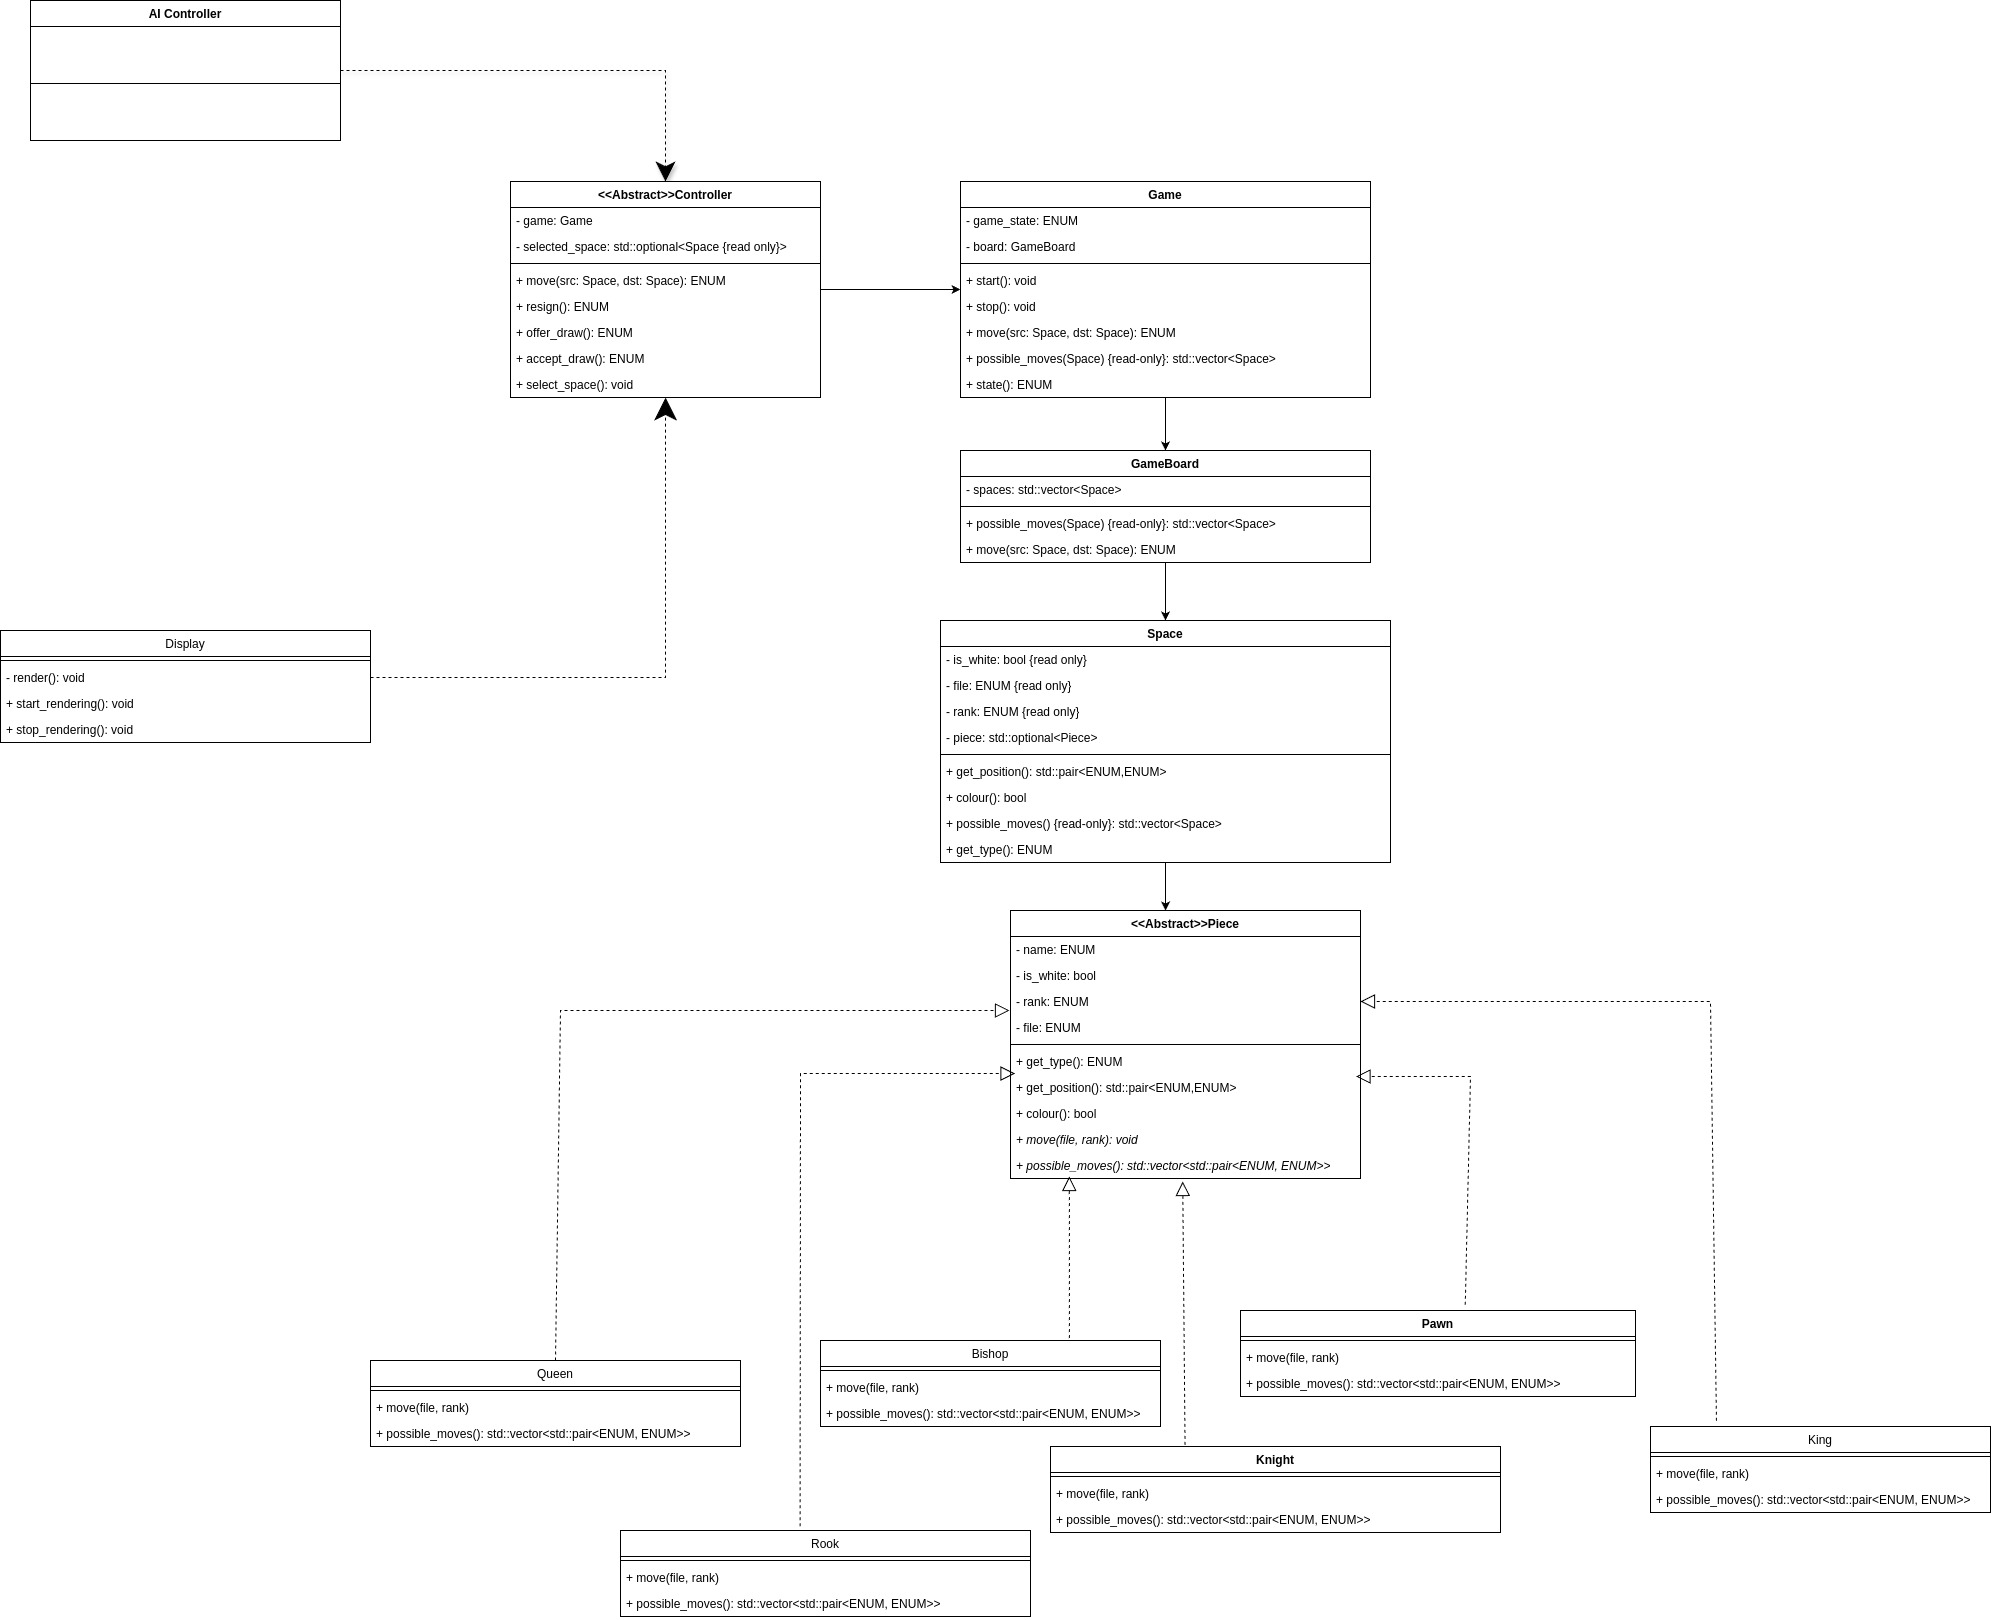
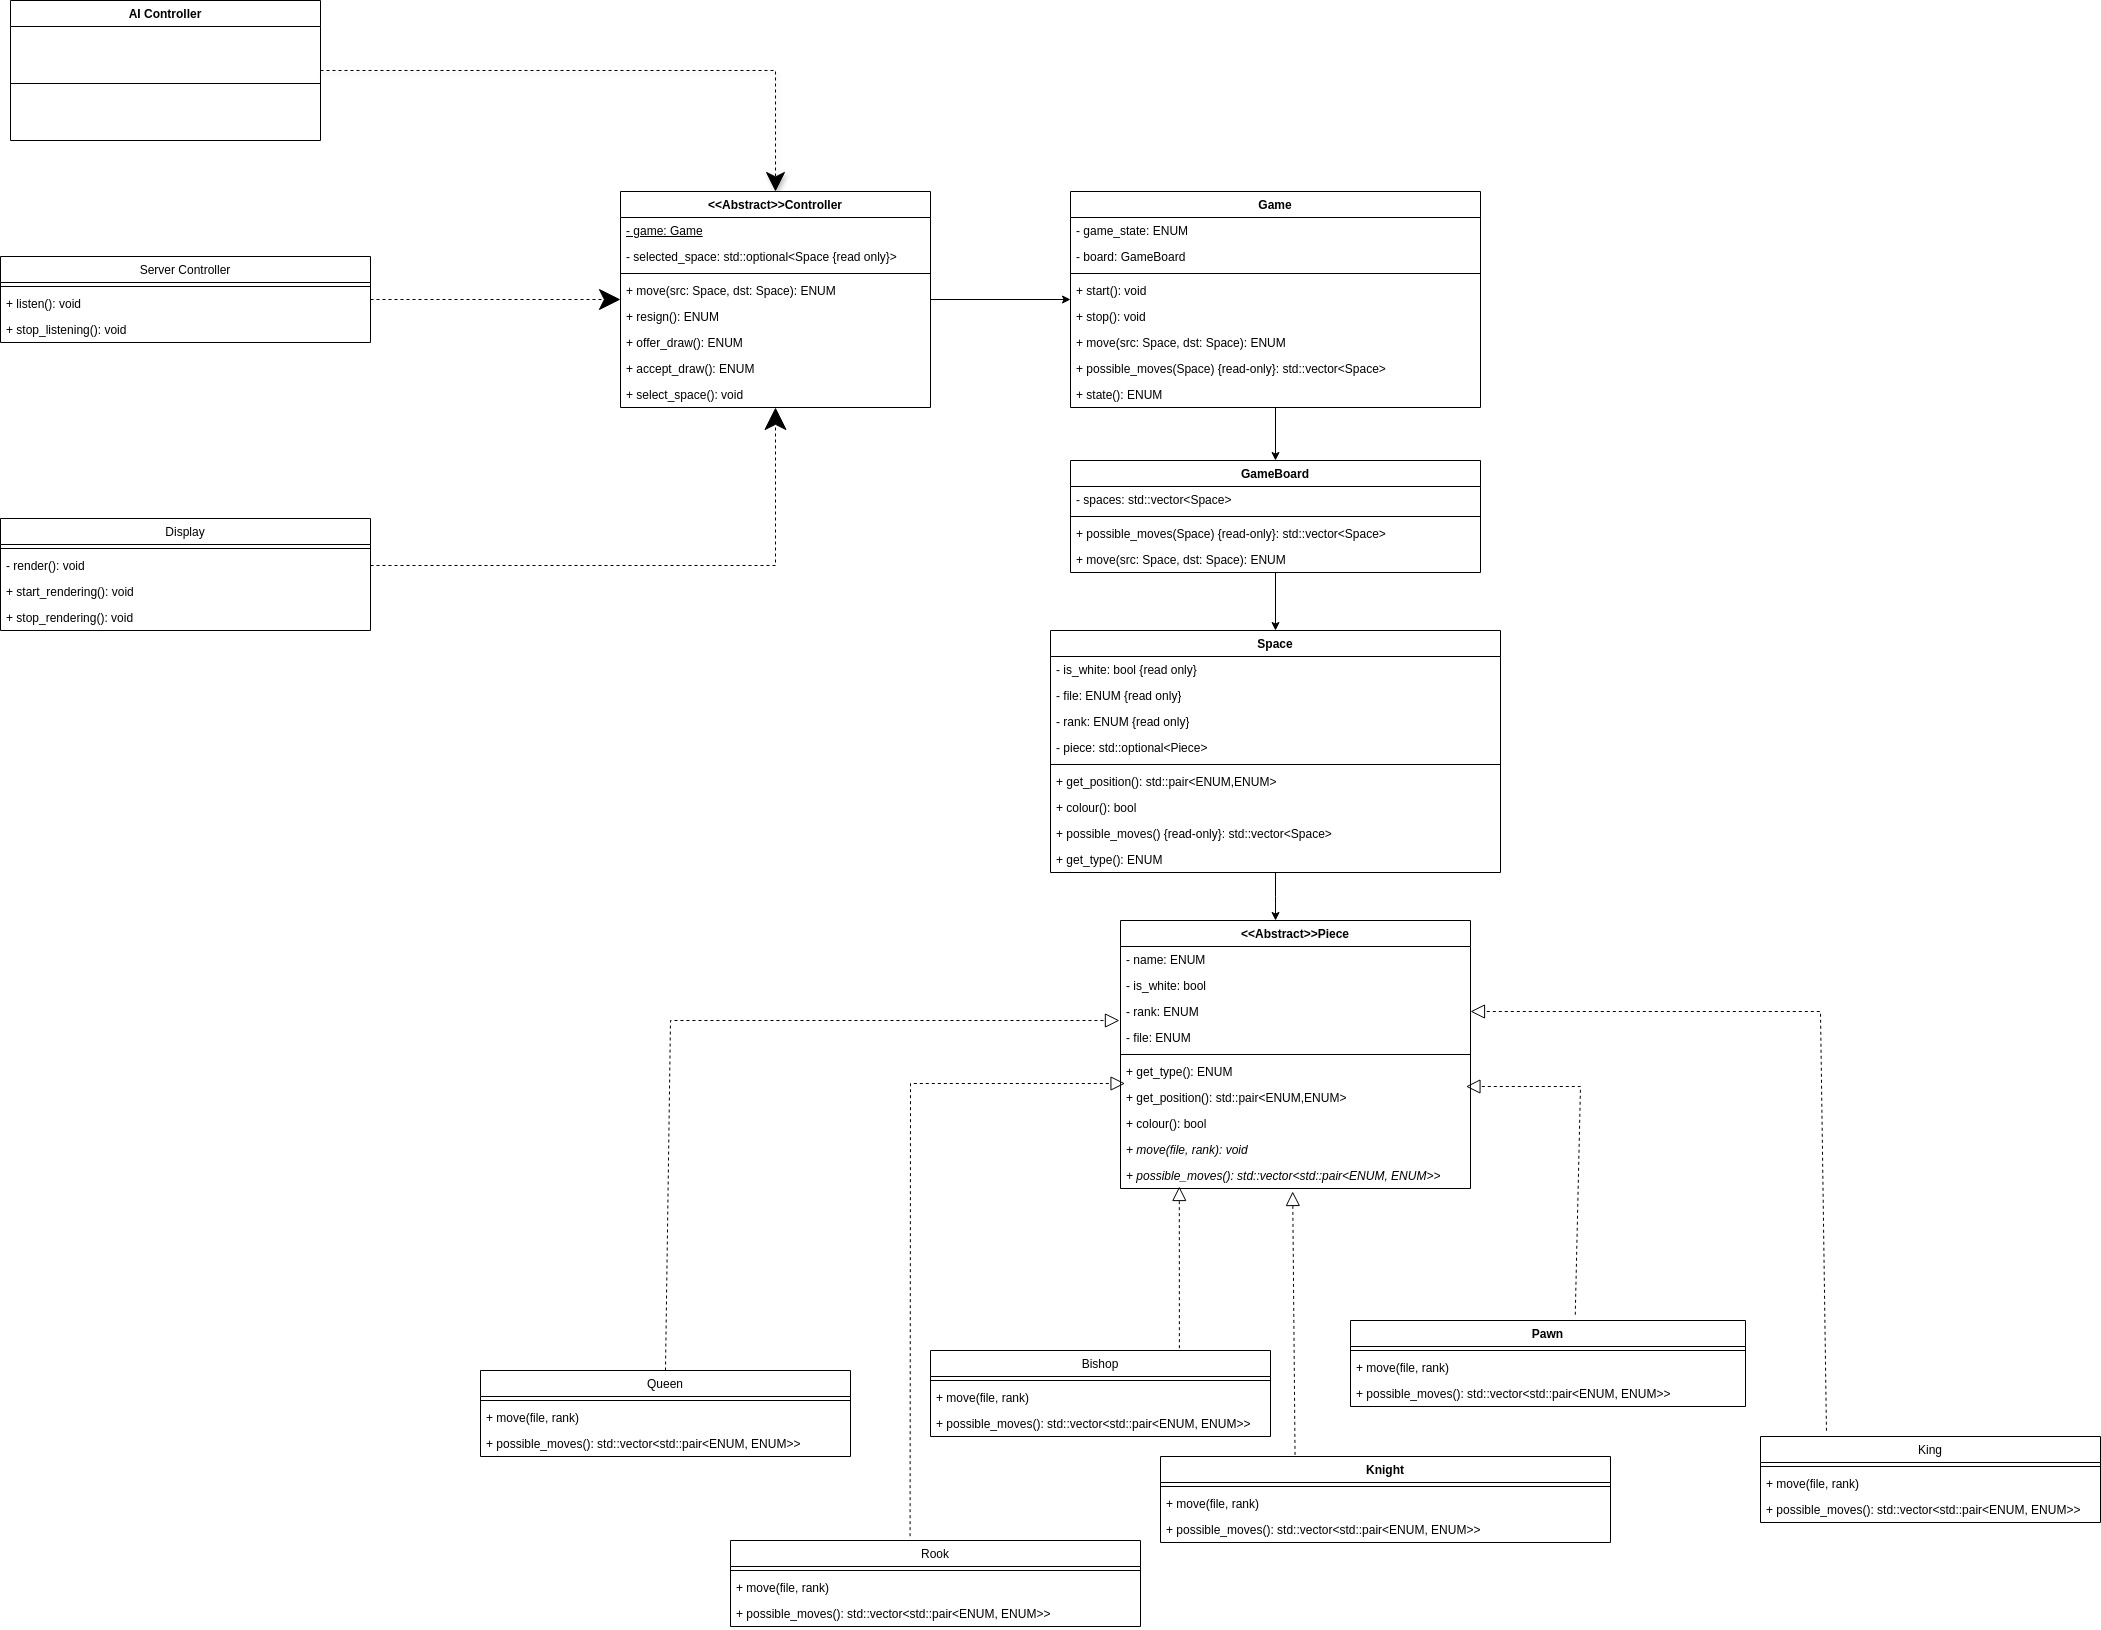
implemented piece class

diff --git a/game/pieces/include/piece.hpp b/game/pieces/include/piece.hpp
@@ -1,0 +1,62 @@
+#ifndef __CHESS__PIECES__PIECE__
+#define __CHESS__PIECES__PIECE__
+
+#include <utility>
+#include <vector>
+namespace chess::pieces {
+
+    enum class name_t {
+        rook,
+        knight,
+        bishop,
+        king,
+        queen,
+        pawn,
+    };
+
+    enum class rank_t {
+        a,
+        b,
+        c,
+        d,
+        e,
+        f,
+        g,
+        h,
+    };
+
+    enum class file_t {
+        one,
+        two,
+        three,
+        four,
+        five,
+        six,
+        seven,
+        eight,
+    };
+
+    using position_t = std::pair< rank_t, file_t >;
+
+    class piece {
+    public:
+        bool       colour() const;
+        name_t     type() const;
+        position_t position() const;
+
+        void move( position_t const dst );
+
+        virtual std::vector< position_t > possible_moves() const = 0;
+
+    protected:
+        piece( bool const white, name_t const name, rank_t const rank, file_t const file );
+
+    private:
+        name_t name;
+        rank_t rank;
+        file_t file;
+        bool   is_white;
+    };
+}  // namespace chess::pieces
+
+#endif

diff --git a/game/pieces/src/piece.cpp b/game/pieces/src/piece.cpp
@@ -1,0 +1,22 @@
+#include <piece.hpp>
+
+namespace chess::pieces {
+
+    piece::piece( bool const white, name_t const name, rank_t const rank, file_t const file )
+    {
+        is_white   = white;
+        this->name = name;
+        this->file = file;
+        this->rank = rank;
+    }
+
+    bool       piece::colour() const { return is_white; }
+    position_t piece::position() const { return { rank, file }; }
+    name_t     piece::type() const { return name; }
+
+    void piece::move( position_t const pos )
+    {
+        rank = pos.first;
+        file = pos.second;
+    }
+}  // namespace chess::pieces
